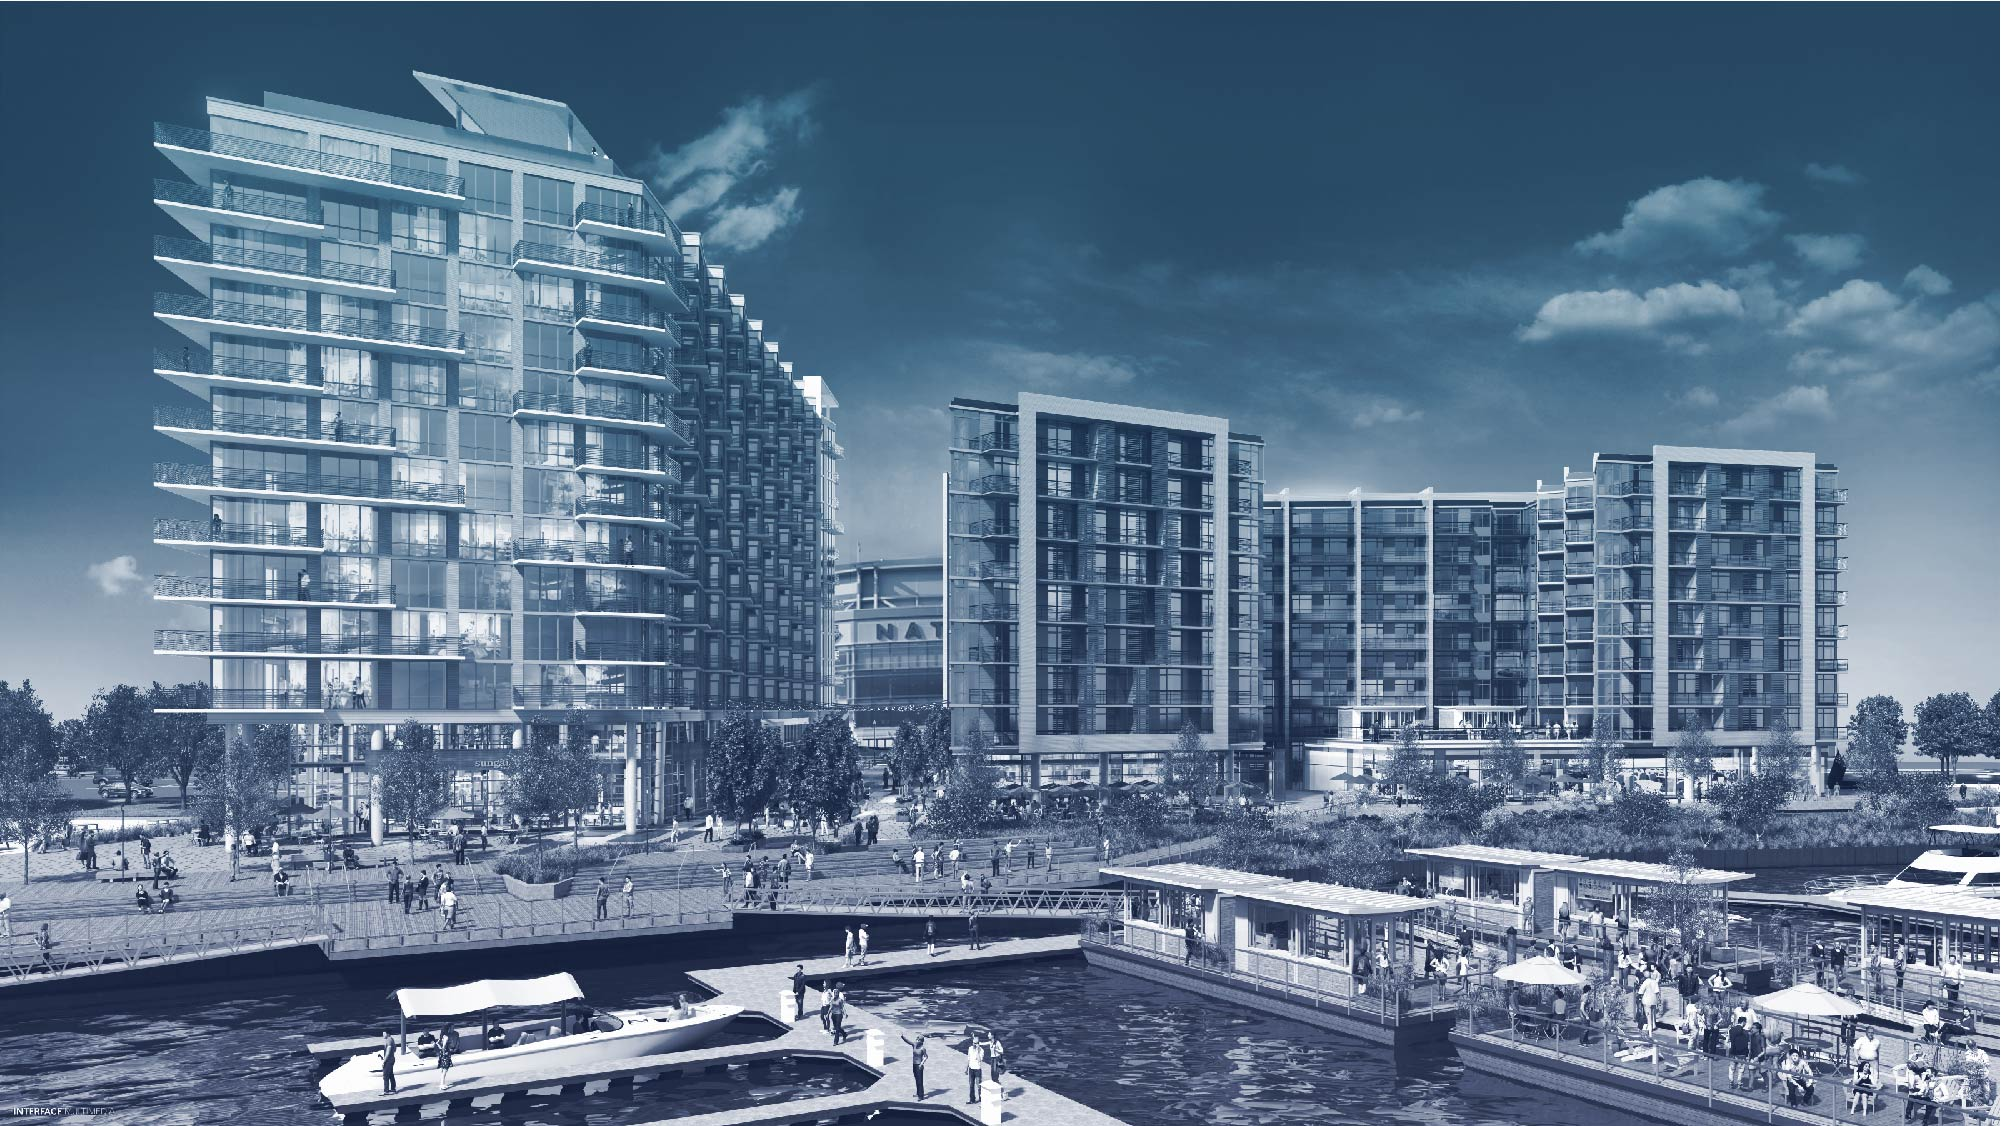
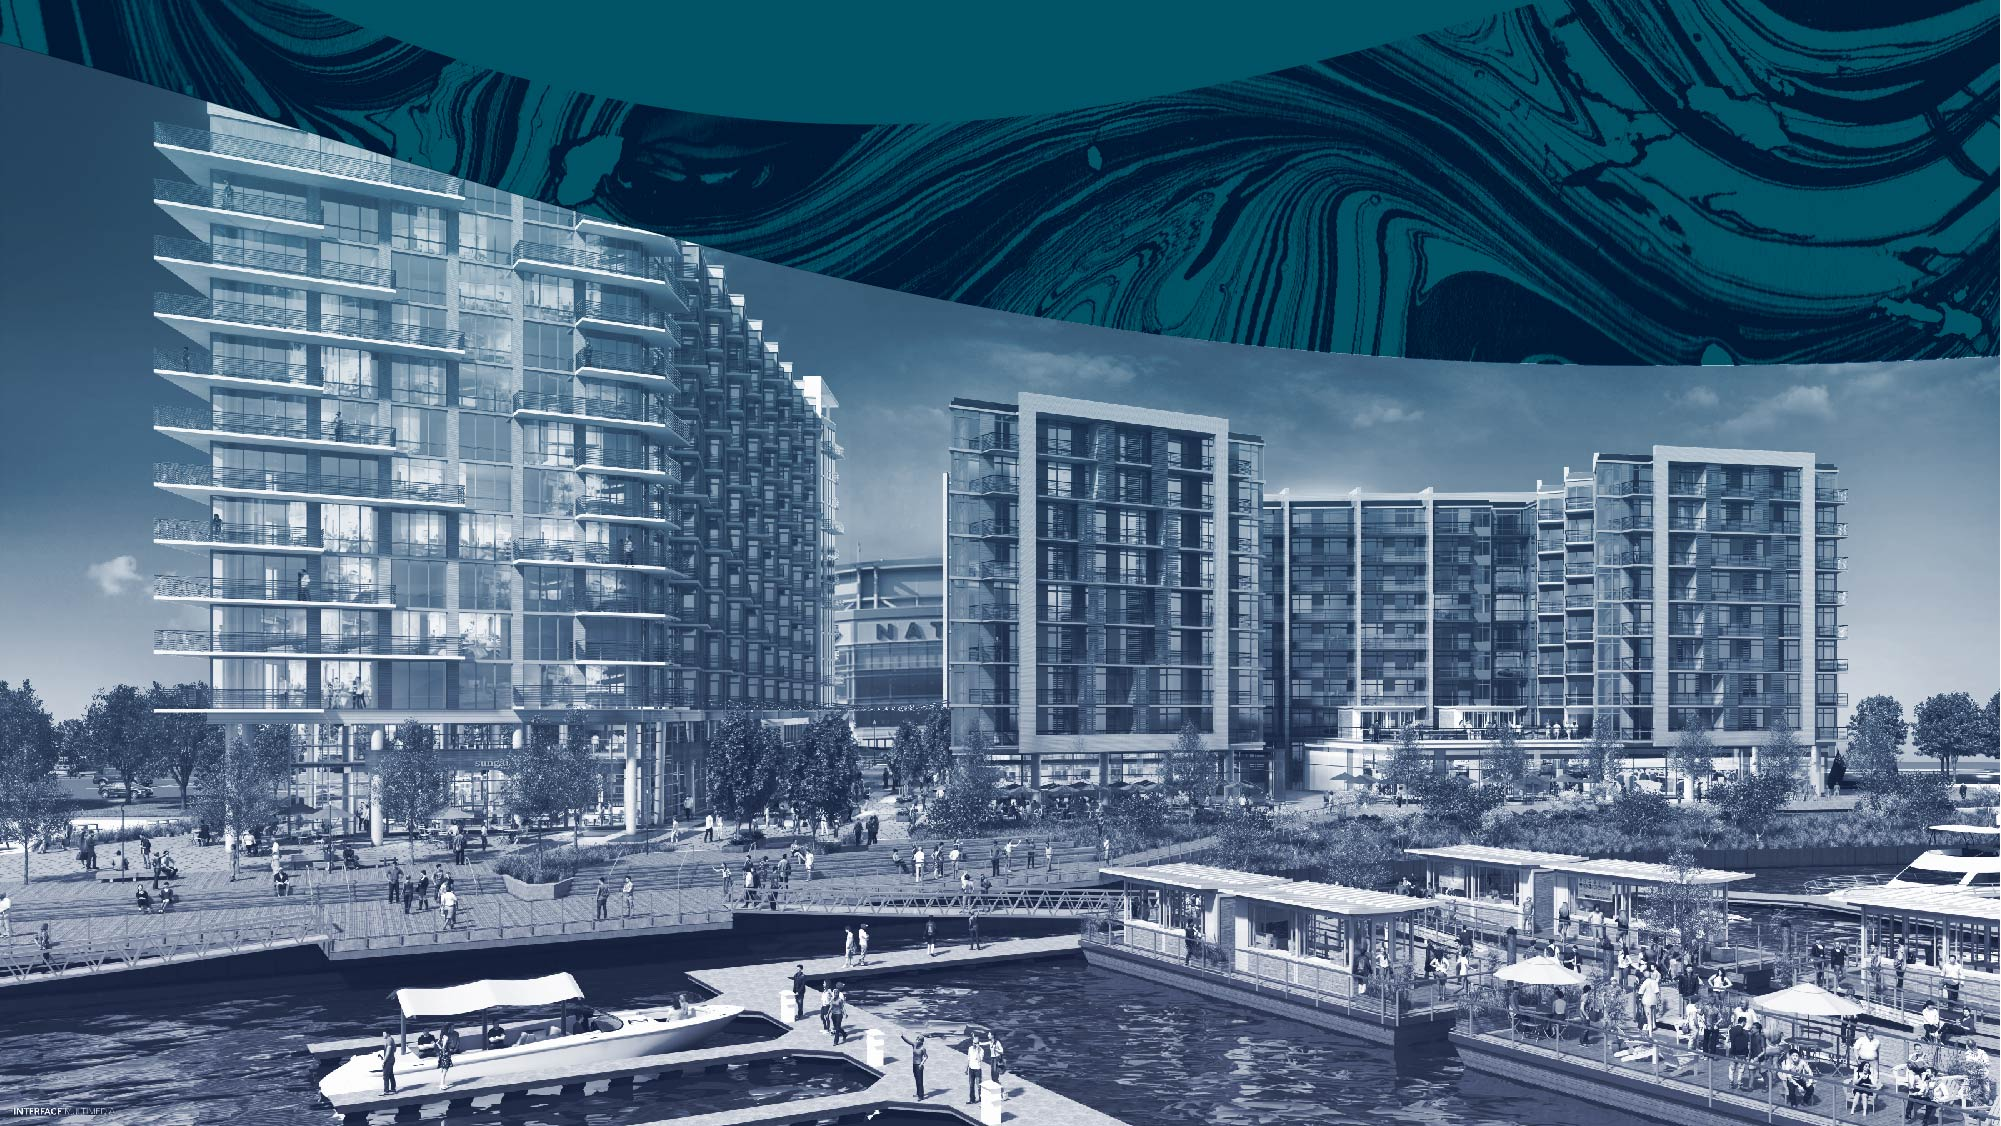
maren updates

Changed region(s): [[0.0, 0.0, 1.0, 0.3419]]

diff --git a/maren/index.html b/maren/index.html
@@ -108,52 +108,54 @@
       </svg>
     </div>
     <h3 class="tagline">where the city meets the water</h3>
-    <div id="signup-form">
-      <!-- Begin MailChimp Signup Form -->
-      <div id="mc_embed_signup">
-        <form action="https://themaren.us18.list-manage.com/subscribe/post?u=e5444a144c39008eb674a2c7b&amp;id=5b938de066" method="post" id="mc-embedded-subscribe-form" name="mc-embedded-subscribe-form" class="validate" target="_blank" novalidate>
-          <div id="mc_embed_signup_scroll" style="input:-webkit-autofill {background-color: #af8f52 !important; opacity: .5 !important; color: #005366 !important;}">
-            <h2 id="phraseInput">Get one step closer to life on the river.</h2>
-            <!-- <div class="indicates-required"><span class="asterisk">*</span> indicates required</div> -->
-            <div class="mc-field-group">
-              <label for="mce-FNAME"></label>
-              <input type="text" value="" name="FNAME" class="" id="mce-FNAME" placeholder="First Name">
+    <div id="whiteBox">
+      <div id="signup-form">
+        <!-- Begin MailChimp Signup Form -->
+        <div id="mc_embed_signup">
+          <form action="https://themaren.us18.list-manage.com/subscribe/post?u=e5444a144c39008eb674a2c7b&amp;id=5b938de066" method="post" id="mc-embedded-subscribe-form" name="mc-embedded-subscribe-form" class="validate" target="_blank" novalidate>
+            <div id="mc_embed_signup_scroll" style="input:-webkit-autofill {background-color: #af8f52 !important; opacity: .5 !important; color: #005366 !important;}">
+              <h2 id="phraseInput">Get one step closer to life on the river.</h2>
+              <!-- <div class="indicates-required"><span class="asterisk">*</span> indicates required</div> -->
+              <div class="mc-field-group">
+                <label for="mce-FNAME"></label>
+                <input type="text" value="" name="FNAME" class="" id="mce-FNAME" placeholder="First Name">
+              </div>
+              <div class="mc-field-group">
+                <label for="mce-LNAME"></label>
+                <input type="text" value="" name="LNAME" class="" id="mce-LNAME" placeholder="Last Name">
+              </div>
+              <div class="mc-field-group topmargin25">
+                <label for="mce-EMAIL"><!-- <span class="asterisk">*</span> --></label>
+                <input type="email" value="" name="EMAIL" class="required email" id="mce-EMAIL" placeholder="Email Address*" required>
+              </div>
+              <div class="mc-field-group topmargin25">
+                <label for="mce-PHONE"></label>
+                <input type="number" pattern="[0-9]*" name="PHONE" class="" value="" id="mce-PHONE" placeholder="Phone Number">
+              </div>
+              <div id="mce-responses" class="clear">
+                <div class="response" id="mce-error-response" style="display:none"></div>
+                <div class="response" id="mce-success-response" style="display:none"></div>
+              </div>    <!-- real people should not fill this in and expect good things - do not remove this or risk form bot signups-->
+              <div style="position: absolute; left: -5000px;" aria-hidden="true"><input type="text" name="b_e5444a144c39008eb674a2c7b_5b938de066" tabindex="-1" value=""></div>
+              <div class="clear center">
+                <input type="submit" name="subscribe" id="mc-embedded-subscribe" class="button" value="Stay Updated" >
+              </div>
             </div>
-            <div class="mc-field-group">
-              <label for="mce-LNAME"></label>
-              <input type="text" value="" name="LNAME" class="" id="mce-LNAME" placeholder="Last Name">
-            </div>
-            <div class="mc-field-group topmargin25">
-              <label for="mce-EMAIL"><!-- <span class="asterisk">*</span> --></label>
-              <input type="email" value="" name="EMAIL" class="required email" id="mce-EMAIL" placeholder="Email Address*" required>
-            </div>
-            <div class="mc-field-group topmargin25">
-              <label for="mce-PHONE"></label>
-              <input type="number" pattern="[0-9]*" name="PHONE" class="" value="" id="mce-PHONE" placeholder="Phone Number">
-            </div>
-            <div id="mce-responses" class="clear">
-              <div class="response" id="mce-error-response" style="display:none"></div>
-              <div class="response" id="mce-success-response" style="display:none"></div>
-            </div>    <!-- real people should not fill this in and expect good things - do not remove this or risk form bot signups-->
-            <div style="position: absolute; left: -5000px;" aria-hidden="true"><input type="text" name="b_e5444a144c39008eb674a2c7b_5b938de066" tabindex="-1" value=""></div>
-            <div class="clear center">
-              <input type="submit" name="subscribe" id="mc-embedded-subscribe" class="button" value="Stay Updated" >
-            </div>
-          </div>
-        </form>
-      </div>
-      <!--End mc_embed_signup-->
-      <h3 class="leftalign">RETAIL LEASING INQUIRIES<br><a href="mailto: info@themaren.com">info@themaren.com</a></h3>
-      <div id="marbling"></div> 
-    </div>
-    <div id="footer">
-      <div class="clearfix">
-        <div class="quartercolumn">
-          <h3 class="leftalign"><strong>THE MAREN</strong><br><a href="https://goo.gl/maps/iJLyDiyWj9z">71 POTOMAC AVE SE<br>WASHINGTON, DC 20003</a></h3>
+          </form>
         </div>
-        <div class="threequartercolumn">
-          <div id="etc-logos">
-            <img id="mrp" src="img/mrp.svg"><img id="frp" src="img/frp.svg"><img id="eho" src="img/eho.svg"><img id="ada" src="img/ada.svg">
+        <!--End mc_embed_signup-->
+        <h3 class="leftalign">RETAIL LEASING INQUIRIES<br><a href="mailto: info@themaren.com">info@themaren.com</a></h3>
+        <!-- <div id="marbling"></div>  -->
+      </div>
+      <div id="footer">
+        <div class="clearfix">
+          <div class="quartercolumn">
+            <h3 class="leftalign"><strong>THE MAREN</strong><br><a href="https://goo.gl/maps/iJLyDiyWj9z">71 POTOMAC AVE SE<br>WASHINGTON, DC 20003</a></h3>
+          </div>
+          <div class="threequartercolumn">
+            <div id="etc-logos">
+              <img id="mrp" src="img/mrp.svg"><img id="frp" src="img/frp.svg"><img id="eho" src="img/eho.svg"><img id="ada" src="img/ada.svg">
+            </div>
           </div>
         </div>
       </div>

diff --git a/maren/css/main.css b/maren/css/main.css
@@ -103,12 +103,12 @@ textarea {
   padding: 0;}
 body {
   font-size: 16px;
-  /*background-color: #e0e0d8;*/
-  background-color: white;}
+  background-color: #e0e0d8;
+  /*background-color: white;*/}
 #tophalf {
   width: 100vw;
   height: 400px;
-  background: url(../img/background.jpg) bottom left; 
+  background: url(../img/background.jpg) center left; 
   -webkit-background-size: cover;
   -moz-background-size: cover;
   -o-background-size: cover;
@@ -120,7 +120,7 @@ body {
   padding: 0;
   z-index: -99;}
 .waterwave-canvas {
-  height: 200px;
+  height: 100px;
   position: absolute;
   bottom: 0;}
 .logo-box {
@@ -136,6 +136,12 @@ body {
 .shadow {
     -webkit-filter: drop-shadow( 0px 0px 5px #000 ); 
             filter: drop-shadow( 0px 0px 5px #000 );
+}
+#whiteBox {
+  width: 90%;
+  padding: 25px 0;
+  background-color: white;
+  margin: 0 auto;
 }
 #marbling {
   width: 100%;
@@ -155,6 +161,9 @@ body {
   width: 200px;
   margin: 0 auto;
   padding: 115px 0;}
+  #logo:hover {
+    cursor: pointer;
+  }
 polygon {  
   transition: fill 1s ease}
 #logo polygon {fill: rgba(255,255,255,0);}
@@ -164,7 +173,7 @@ polygon {
   fill: #af8f52;
   font-weight: bold;}
 #signup-form, .page-column {
-  width: calc(100vw - 50px);
+  width: calc(100% - 50px);
   margin: 0 25px;}
 #signup-form h3 {
   padding-top: 25px;
@@ -172,8 +181,8 @@ polygon {
   font-size: 1.2rem;
 }
 #footer {
-  width: calc(100vw - 50px);
-  margin: 0 25px;
+  width: calc(100% - 50px);
+  margin: 45px 25px 0;
   padding: 45px 0;
   background-color: ;
   border-top: 2px #005366 solid;
@@ -181,9 +190,12 @@ polygon {
 #mark {
   width: 50px;
   margin: 0 auto;}
-.halfcolumn{
+.quartercolumn{
   width: 100%;
-  float: left;}
+  float: none;}
+.threequartercolumn{
+  width: 100%;
+  float: none;}
 #mrp{height: 14px; padding: 10px 15px 10px 0; max-width: 80%;}
 #frp{height: 28px; padding: 10px 15px; max-width: 80%; border-left: 2px #005366 solid; border-right: 2px #005366 solid;}
 #ada{height: 18px; padding: 10px 0 10px 10px; max-width: 80%;}
@@ -191,7 +203,8 @@ polygon {
 #etc-logos {
   width: 315px;
   margin: 25px auto 0;
-  text-align: left;}
+  text-align: center;
+  float: none;}
 h1 {
   font-family: 'Playfair Display', serif;
   font-style: italic;
@@ -223,6 +236,7 @@ h3.tagline {
   text-align: center;
   text-transform: uppercase;
   color: #af8f52;
+  padding-bottom: 45px;
 }
 h3 a {
   font-size: 1rem;
@@ -240,6 +254,7 @@ a:hover {
   color: #005366;
   text-decoration: none;
   border-bottom: 2px solid #005366;}
+#footer h3 {text-align: center;}
 #footer a {color: #005366; text-transform: uppercase;}
 #footer a:hover {color: #af8f52;}
 #footer h3 a, #footer h3 a:hover {border: none;}
@@ -275,7 +290,7 @@ a:hover {
   font-weight: bold;
   border: 2px solid #005366;
   border-radius: 0;
-  background-color: none;
+  background-color: white;
   color: #005366;
   margin-top: 25px;
   font-size: 1rem;
@@ -385,15 +400,15 @@ a:hover {
     /* Style adjustments for viewports that meet the condition */
   body {
     font-size: 16px;
-    /*background-color: #e0e0d8;*/
-    background-color: white;}
+    background-color: #e0e0d8;
+    /*background-color: white;*/}
   #tophalf {
     width: 100vw;
     height: 600px;}
   .logo-box {
     width: 100vw;
     height: 600px;
-    margin: }
+    margin: ;}
   #tagline {
     width: 500px;
     top: -80px;}
@@ -404,18 +419,15 @@ a:hover {
   .cls-1,.cls-2{
     font-size: 24px;}
   #signup-form {
-    width: calc(100vw - 100px);
+    width: calc(100% - 100px);
     margin: 50px 50px 0;}
   #mc_embed_signup {
     width: 100%;
     margin: 0 auto;}
   #footer {
-    width: calc(100vw - 100px);
-    margin: 0 50px;
+    width: calc(100% - 100px);
+    margin: 45px 50px 0;
     padding: 45px 0;}
-  #etc-logos {
-    width: 315px;
-    margin: 25px 0 0;}
   .mobile-only {display: none;}
   /*.desktop-only {display: block;}*/
   #mark:hover {
@@ -467,28 +479,34 @@ a:hover {
 
 @media only screen and (min-width: 768px) {
   #signup-form {
-    width: calc(100vw - 200px);
+    width: calc(100% - 200px);
     margin: 50px 100px 0;}
   #footer {
-    width: calc(100vw - 200px);
-    margin: 0 100px;
+    width: calc(100% - 200px);
+    margin: 45px 100px 0;
     padding: 45px 0;}
   #mc_embed_signup {
     width: 100%;
     margin: 0 auto;}
+  #whiteBox {
+    width: calc(90% - 100px);
+  }
+}
+@media only screen and (min-width: 950px) {
+  #footer h3 {text-align: left;}
+  #etc-logos{width: 378px; margin: 25px 0 0; float: right;}
   .quartercolumn{
     width: 35%;
     float: left;}
   .threequartercolumn{
     width: 65%;
     float: right;}
-  #etc-logos{width: 378px; margin: 25px 0 0; float: right;}
   #mrp{height: 15px; padding: 10px 25px 10px 0; max-width: 80%;}
   #frp{height: 30px; padding: 10px 25px; max-width: 80%; border-left: 2px #005366 solid; border-right: 2px #005366 solid;}
   #ada{height: 18px; padding: 10px 0 10px 10px; max-width: 80%;}
   #eho{height: 18px; padding: 10px 25px; max-width: 80%;}
 }
-@media only screen and (min-width: 850px;) {
+@media only screen and (min-width: 1150px) {
   #etc-logos {
     width: 460px;
     margin: 25px 0 0;
@@ -497,6 +515,9 @@ a:hover {
   #frp{height: 40px; padding: 10px 25px; max-width: 80%; border-left: 2px #005366 solid; border-right: 2px #005366 solid;}
   #ada{height: 25px; padding: 10px 0 10px 10px; max-width: 80%;}
   #eho{height: 25px; padding: 10px 25px; max-width: 80%;}
+  #whiteBox {
+    width: calc(90% - 200px);
+  }
 }
 @media print,
        (-webkit-min-device-pixel-ratio: 1.25),

diff --git a/maren/js/main.js b/maren/js/main.js
@@ -1,6 +1,7 @@
 $(document).ready(function() {
     animate();
     waves();
+    logoClick();
     // run function on resize of the window
     $(window).resize(function(){
      
@@ -19,13 +20,17 @@ function animate() {
 	    $('#mark').toggleClass('ani-trans');
 	});
 }
-
+function logoClick() {
+  $('#logo').click(function(){
+    $('html, body').animate({scrollTop: '+=500px'}, 800);
+  });
+}
 function waves() {
     $(".waterwave-canvas").waterwave({
       // parent container
       parent : '#tophalf',
       // color of waves
-      color : '#ffffff',
+      color : '#e0e0d8',
       // or 'down'
       direction: 'up',
       // background color

diff --git a/maren/js/waves.js b/maren/js/waves.js
@@ -11,7 +11,7 @@
         // DEFAULT OPTIONS
         var settings = $.extend({
             parent : '',
-            color : '#fff',
+            color : '#e0e0d8',
             direction: 'up',
             background: ''
         }, options );
@@ -37,7 +37,7 @@
                 else {
                     waterwave.attr({
                         width: $(parent).width() + "px",
-                        height: "200px"
+                        height: "100px"
                     });
                 }
             }
